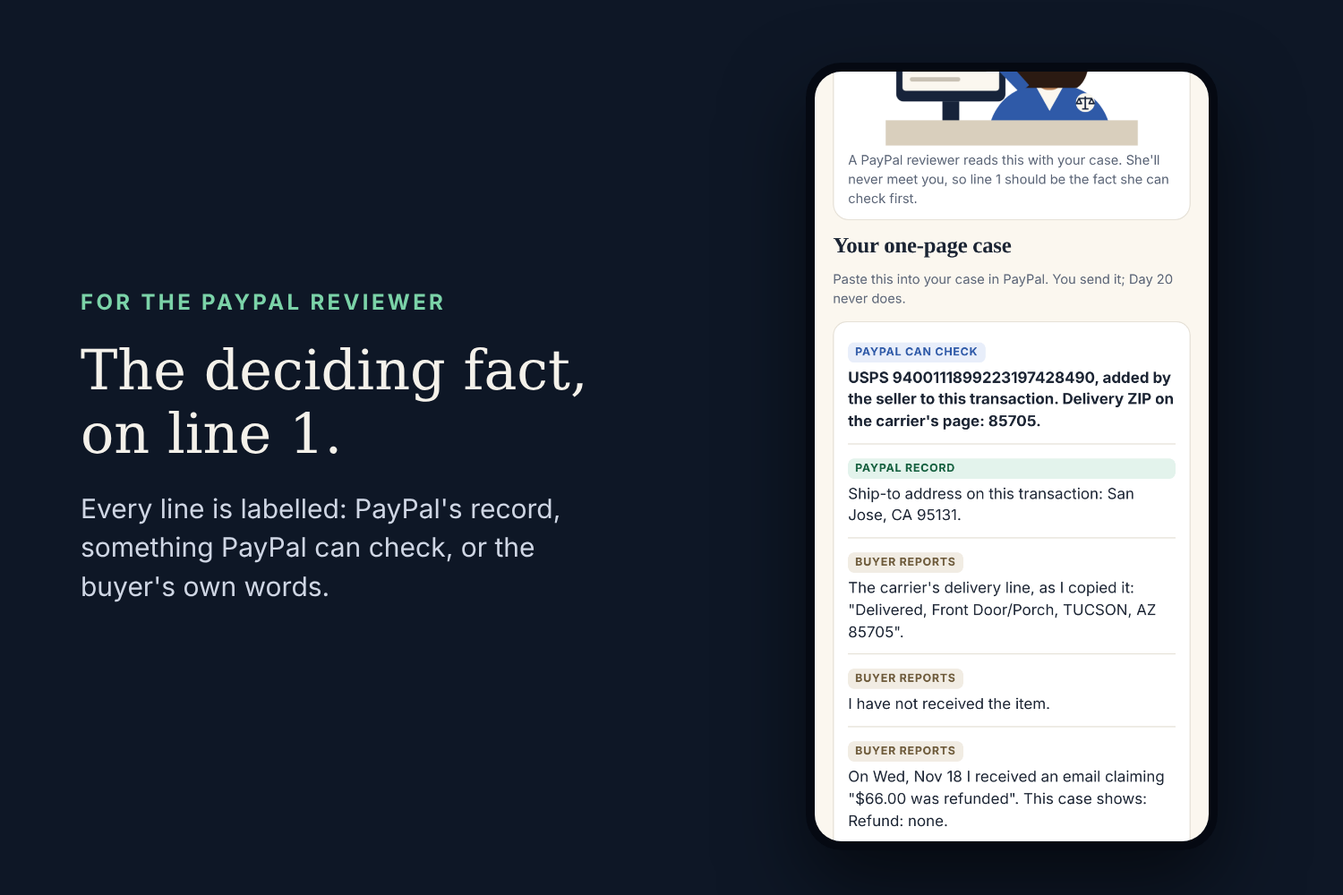
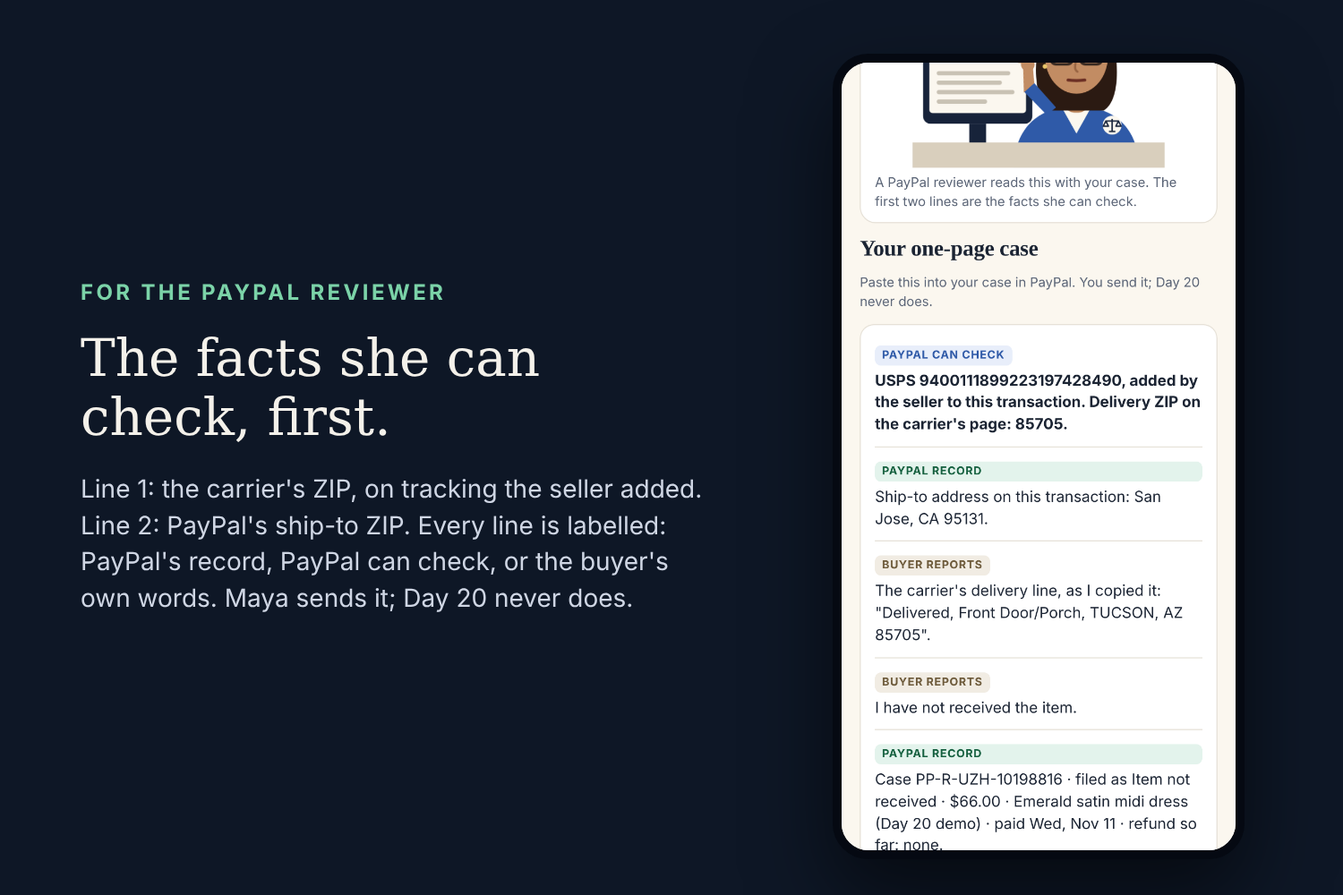
Live results on the current code (scams 3 runs, genuine 2 runs, all 24 scam screenshots, held-out set 8), README and Devpost text updated with them; new gallery and Maya thumbnail; video script for v12

Changed region(s): [[0.5827, 0.062, 0.92, 0.961], [0.0613, 0.372, 0.5213, 0.682], [0.0613, 0.31, 0.3373, 0.341]]

diff --git a/docs/DEVPOST.md b/docs/DEVPOST.md
@@ -4,75 +4,92 @@
 **Tagline:** Emails can lie. Your PayPal case can't.
 **Try it:** https://day20.onrender.com (tap "Try it as Maya", no sign-in) · **Code:** https://github.com/dalyathan/day20 (MIT)
 
+**In one line:** a fake "your refund is already in your balance" email, sent as a screenshot, checked against the buyer's real PayPal case: keyword rules can't read it, Claude can, and code makes the call.
+
 ## Inspiration
 
-Maya is an ICU nurse. She paid $66 with PayPal for a dress for her best friend's wedding. It never came: the tracking says delivered, in Tucson, Arizona; she lives in San Jose. She opened a PayPal dispute. Then, at 3:14 a.m. on her break, an email from `service@paypal.com`: *"The seller has issued a full refund of $66.00. Your case has been resolved. No further action is required."*
+Maya is an ICU nurse. She paid $66 with PayPal for a dress for her best friend's wedding. It never came: the tracking says delivered, in Tucson, Arizona; she lives in San Jose. She opened a PayPal dispute.
 
-It isn't true. If she believes it, her case closes by itself on day 20, and a closed case can't be reopened. Emails like this are real: security researchers have reported scams sent through PayPal's own genuine `service@paypal.com` address ([Malwarebytes, Apr 2026](https://www.malwarebytes.com/blog/news/2026/04/more-paypal-emails-hijacked-to-deliver-tech-support-scams)), and online shopping was the second most reported fraud category in the FTC's 2024 data ([FTC](https://www.ftc.gov/news-events/news/press-releases/2025/03/new-ftc-data-show-big-jump-reported-losses-fraud-125-billion-2024)). Maya is our persona; we role-played 24 dispute scenes like hers with AI agents to design Day 20. In those scenes, honest buyers mostly lost *before* review, to the clock and to emails like this, not *at* review.
+At 3:14 a.m., on her break, an email arrives from "PayPal Service" about her case: *"Just a quick note so you're not left wondering. Your $66.00 is already sitting in your PayPal balance on our side… Everything looks good from here."*
+
+No link, no "click here", nothing a keyword filter flags. And it isn't true. The seller wrote it; he can see her case number. The `service@paypal.com` on the From line proves nothing: display names can be faked, and anyone with a PayPal account can even get PayPal's real servers to deliver their own words in an invoice or money-request note ([KnowBe4](https://blog.knowbe4.com/paypal-scam-from-paypal), [Malwarebytes](https://www.malwarebytes.com/blog/news/2026/04/more-paypal-emails-hijacked-to-deliver-tech-support-scams)). If Maya believes it and waits, her case closes by itself on Tue, Dec 1, day 20. A closed case can't be reopened, and the $66 is gone.
+
+She has ten minutes on a night break, so Day 20's answer is one line, and the deadline is a date, not a rule to look up. Online shopping was the second most reported fraud category in the FTC's 2024 data ([FTC](https://www.ftc.gov/news-events/news/press-releases/2025/03/new-ftc-data-show-big-jump-reported-losses-fraud-125-billion-2024)). Maya is our persona, not a real user: we role-played 24 dispute scenes like hers with AI agents to design Day 20. In those scenes, honest buyers mostly lost *before* review, to the clock and to emails like this one, not *at* review.
+
+**How her night ends in the demo:** Maya screenshots the email and asks Day 20. It says the email is wrong: PayPal shows no refund, and the case is open, 13 days before it closes. She checks the USPS page herself, types in the Tucson ZIP, and escalates in PayPal. Her one-page case opens with the two ZIPs the reviewer can check. At 3:19 a.m. she's back with her patients. The reviewer decides; Day 20 only made sure the case was still open when Maya acted.
 
 ## What it does
 
-A mobile web app for a buyer with an open PayPal dispute.
+Day 20 is a buyer safety layer for PayPal disputes, built so PayPal could ship it inside its own dispute screens (it's MIT-licensed).
 
-- **Reads her case from PayPal, read-only:** status, refund, amount, dates, ship-to ZIP, tracking, and the 20-day clock.
-- **Checks any email against that record.** Claude reads the email (or a screenshot); code compares each claim with PayPal's record: refunds, "case closed", requests to close or cancel, lookalike links, requests for codes, stalling. The sender's address is never proof.
+- **Reads her case from PayPal:** status, refund, amount, dates, ship-to ZIP, tracking, and the 20-day clock.
+- **Checks any email or screenshot against that record.** Claude reads it; code compares each claim with PayPal's record: refunds, "case closed", requests to close or cancel, lookalike links, requests for codes, stalling. The sender's address is never proof.
 - **Answers in one line from PayPal's record:** "PayPal shows no refund. Your case is still open: 13 days left, it closes Tue, Dec 1. Don't close it."
-- **Gives the next step**, including "not yet" when an honest seller deserves time and "not covered" when Buyer Protection doesn't apply.
-- **Drafts a one-page case for the reviewer:** the deciding fact on line 1, each line labelled `PAYPAL RECORD`, `PAYPAL CAN CHECK` or `BUYER REPORTS`.
+- **Keeps her own check apart from PayPal's record.** The delivered ZIP is what Maya read on the carrier's page. It's labelled "Your check", beside "PayPal's record: your ship-to ZIP".
+- **Gives the next step,** including "not yet" when an honest seller deserves time and "not covered" when Buyer Protection doesn't apply.
+- **Drafts a one-page case for the reviewer.** Its first two lines are the facts she can check: the carrier's delivered ZIP (on tracking the seller added) and PayPal's ship-to ZIP. Every line is labelled `PAYPAL RECORD`, `PAYPAL CAN CHECK` or `BUYER REPORTS`.
 - **Reminders she chooses** (day 15 and day 18), silent by default.
 
-It never files, escalates, closes or accepts anything; she does that in PayPal. Read-only is enforced by code: the app only makes GET calls. Pasted emails go to Anthropic's API to be read and aren't stored; reminder emails, if she chooses them, go through Resend.
+It never files, escalates, closes or accepts anything. She does that in PayPal. Its PayPal client refuses any call that isn't a read, and a test checks that; the only writes are the setup scripts that create the sandbox case. Pasted emails go to Anthropic's API to be read. Day 20 doesn't keep the email text, but Anthropic's API data policy applies. Reminder emails, if she chooses them, go through Resend.
+
+## What Claude does, and what it doesn't
+
+Claude makes two decisions:
+1. **What does this email claim?** It reads reworded lies and screenshots that keyword rules can't. A red flag only counts if Claude quotes the sentence and code confirms it's in the email and isn't negated or hypothetical. (For a screenshot the quote is checked against Claude's own transcription, so that check is weaker.) Amounts must appear in the email too.
+2. **Which code-written sentences does Maya read?** Code writes every sentence; Claude picks from them. Claude can add a warning but never remove one. (We haven't measured whether Claude's choice beats a fixed order.)
+
+Code decides the rest: each claim against PayPal's record, the verdict, the deadline and the next step.
+
+**Results on the deployed app, with Claude on** (claude-sonnet-5-5; check code at commit 197d0f3, unchanged in 95b7bb3). Raw rows: [`tests/live/`](https://github.com/dalyathan/day20/tree/main/tests/live); summary: `npm run live-summary`; re-run them yourself by pasting `scripts/live-eval-browser.js` into the browser console on the live site.
+
+| | Keyword rules alone | With Claude |
+|---|---|---|
+| Scam emails flagged red (the 24 we tuned on) | 9 / 24 | **11 / 24 in each of 3 runs** (the same 11 every time) |
+| Genuine emails wrongly flagged red (36) | 0 / 36 | **0 / 36 in each of 2 runs** |
+| Scam **screenshots** flagged red (all 24, one run) | can't read images | **11 / 24: the same 11 as the text** |
+
+- **What Claude adds on text is narrow: 2 of 24, both reworded refund lies like Maya's** ("already sitting in your PayPal balance"). It catches them in all 3 runs. The other 13 scams aren't flagged red by either reader; they get the amber "go by your PayPal case, not this email", which every email that isn't flagged red gets, genuine ones included.
+- **On screenshots, Claude is the only reader.** It transcribes the image, then the same checks run. Over all 24 scam screenshots it flagged the same 11 as the text versions, so reading an image costs nothing. Screenshots of 6 held-out genuine emails: 1 flagged, the same different-shop refund the rules flag as text.
+- **Genuine email it had never seen** (held-out set 8: 12 emails by a fresh writer, frozen before scoring): 11/12 left alone in each of 3 runs at commit 2ddc64e, and in 1 run on the current code (95b7bb3). Keyword rules alone also score 11/12, and Claude can't remove a flag, so this shows Claude **added no false alarm**, not that it fixed one.
+- **Not measured:** unseen scams (a fresh agent asked to write new ones was stopped by a safety check, and we didn't work around it), and whether Claude's choice of sentences beats a fixed order.
+
 
 ## How we built it
 
-**Claude reads → code decides → Claude picks which code-written sentences she sees.**
-
-- **PayPal (sandbox):** Disputes API, then the capture's `up` link to Orders v2 for the ship-to address and trackers, plus the Tracking API. Maya's case is a real sandbox dispute: a $66 order, captured, seller tracking added, "item not received". The demo is a labelled replay of it at the open stage, read through our own test seller account; the real case is one tap away.
+- **PayPal (sandbox):** Disputes API, then the capture's `up` link to Orders v2 for the ship-to address and trackers, plus the Tracking API. Maya's case is a real sandbox dispute: a $66 order, captured, seller tracking added, "item not received". The demo is a labelled replay of it at the open stage, read through our own test seller account.
 - **Why not PayPal's Agent Toolkit?** Its dispute tools are merchant-side and include `accept_dispute_claim`. Day 20 is for the buyer and must not be able to act, so it makes only the read calls.
-- **Agent:** a Claude tool loop (`read_case`, `read_claim`, `compare`, `next_step`, `draft_page`, `schedule_reminder`, `note_options`, `compose_note`), all read-only. The model can add a warning but never remove one, and a red flag only counts if Claude quotes the sentence and code confirms it's in the email (for a screenshot, in the transcription) and isn't negated or hypothetical; amounts must appear in the email too.
-- **Also:** Node 22 with zero dependencies on Render; an MCP server with five read-only functions (it uses the rules reader; your own assistant does the reading); a Postman collection of every PayPal call (its Day 20 folder runs in CI); web push from the RFCs; Spanish.
+- **Agent:** a Claude tool loop, all read-only. Most of its tools just hand Claude the case, the comparison and the sentence options; the two decisions above are the real work.
+- **Also:** Node 22 with zero dependencies on Render; an MCP server with five read-only functions (it uses the rules reader, and your own assistant does the reading); a Postman collection of every PayPal call (its Day 20 folder runs in CI); web push from the RFCs; Spanish.
 
 ## Who tests the AI?
 
-AI agents played scammers, a rule-breaker and honest senders, scoring a point for every mistake they caused; each mistake became a test. The biggest lesson: our regex honesty filter caught 0 of 33 new harmful sentences, so **the model no longer writes anything Maya reads.**
-
-**Does Claude help?** Same 60 test emails, run through the deployed app, one run each. These are emails we tuned on, including the evidence check:
-
-| | Rules alone | With Claude |
-|---|---|---|
-| Scams flagged red (contradicts PayPal's record) | 9 / 24 | **11 / 24** |
-| Scams still warned about (red, or "go by your PayPal case, not this email") | 24 / 24 | 24 / 24 |
-| Genuine emails flagged red (all still get a caution) | 0 / 36 | **0 / 36** |
-
-**On email it had never seen:** 12 genuine emails by a fresh writer, frozen before scoring: 11/12 not flagged red with rules alone, and 11/12 in each of 3 runs with Claude, so Claude added no false alarm (the miss is a real refund from a different shop). **We haven't measured unseen scams** with the current code: a fresh agent asked to write new ones was stopped by a safety check, and we didn't work around it.
-
-Every email-test number re-runs from the repo (`npm run eval`, `npm run replay-heldout`, `npm run live-eval-deployed`); the agent-game counts (like "0 of 33") are our report.
+AI agents played scammers and honest senders and scored a point for every mistake they caused; each mistake became a test. When a regex filter on the model's own sentences caught 0 of 33 harmful ones, we stopped letting the model write anything Maya reads.
 
 ## Why PayPal would want this
 
-It isn't a "file more claims" button. In 8 of our 24 designed scenes it says **don't escalate yet, or at all**: the seller is answering, check with a neighbour, the item arrived as described, or the purchase isn't covered. The claims that do arrive lead with a fact the reviewer can check on line 1. The metric we'd want to move with PayPal: **fewer valid "item not received" cases closing unescalated on day 20** (lower is better), without more escalations of cases the seller resolves.
+It isn't a "file more claims" button. In 8 of our 24 designed scenes it says **don't escalate yet, or at all**: the seller is answering, check with a neighbour, the item arrived as described, or the purchase isn't covered. The claims that do arrive open with the two facts a reviewer can check. The metric we'd want to move with PayPal: **fewer valid "item not received" cases closing unescalated on day 20**, without more escalations of cases the seller resolves.
 
 ## Challenges
 
-- **There's no buyer-side read API.** Log in with PayPal gives identity, not transactions, so the demo reads the case through our seller account. Real buyers need the scope below.
+- **An outside app can't read a buyer's case yet.** PayPal's API lists a `disputes/read-buyer` scope, but we found no way for a third-party app to get a buyer's consent for it (Log in with PayPal gives identity, not transactions). So the demo reads the case through our own seller account.
 - **Regex can't police a language model.** So the model picks sentences instead of writing them.
-- **Our own fixes created false alarms** (the first live run flagged 2 genuine emails red), which is why model flags now need checkable quotes.
+- **Our own fixes created false alarms.** The first live run flagged 2 genuine emails red, which is why Claude's flags now need checkable quotes.
 
 ## Accomplishments that we're proud of
 
 - The model can't write a sentence Maya reads, and its red flags must quote the email.
-- We publish our misses, and every email-test number, including held-out scores from old commits, re-runs from the repo.
-- A real sandbox dispute end to end, and a live app judges can try in 30 seconds.
+- Read-only isn't just a promise: the PayPal client refuses writes, and a test proves it.
+- We publish our misses, and every email-test number re-runs, including held-out scores from old commits.
 
 ## What we learned
 
-The most useful thing an agent can do here is boring: keep the clock, compare claims with the record, and put the deciding fact on line 1. Persuasion and filing are where the harm is.
+The most useful thing an agent can do here is boring: keep the clock, compare claims with the record, and put the checkable facts first. Persuasion and filing are where the harm is.
 
 ## What's next: our asks to PayPal
 
-1. **A buyer-consented, read-only `disputes.read` scope** for the buyer's own cases, so Day 20 works for real buyers.
-2. **The carrier's delivered ZIP on the dispute record,** with a mismatch against the ship-to ZIP flagged to the reviewer automatically.
-3. **Dispute webhooks for buyer apps,** so reminders follow the case's real status instead of dates.
+1. **Label seller-written text in PayPal's own emails.** Invoice and money-request notes arrive from `service@paypal.com`. Mark them "written by the seller", and block refund claims and dispute case numbers in them.
+2. **Put the carrier's delivered ZIP on the dispute record,** and flag a mismatch with the ship-to ZIP to the reviewer. That helps reviewers whether or not anyone uses Day 20.
+3. **Let buyers consent to `disputes/read-buyer` for an outside app,** and extend dispute webhooks to buyers, so reminders follow the case's real status. Or ship Day 20 inside PayPal's dispute screens: it's MIT-licensed and only reads.
 
 ## Built with
 

diff --git a/docs/VIDEO_SCRIPT.md b/docs/VIDEO_SCRIPT.md
@@ -1,25 +1,26 @@
-# Video: Day 20 (2:07, captions, no voiceover)
+# Video: Day 20 (2:13, captions, no voiceover)
 
-No narration: every word on screen is a caption. Phone footage is a scripted recording of the app with the saved
-sandbox case (replay, set to "open" at day 7). The two email checks show **responses captured from the live app
-with Claude on** (day20.onrender.com, commit 6c9528a), rendered by the same app, and the captions say so. Maya and
-Rosa are animated SVG characters from `public/characters.js`.
+Every word on screen is a caption; there's no narration. The phone footage is a scripted recording of the app
+(commit 95b7bb3) with the saved sandbox case, replayed and set to "open" at day 7. The check shows **Claude's
+responses captured from the live app** (day20.onrender.com, commit 95b7bb3), rendered by the same app, and a caption
+says so. Maya and Rosa are animated SVG characters from `public/characters.js`. The whole video uses one flat
+background colour.
 
 | Time | On screen | Caption |
 |---|---|---|
-| 0:00–0:07 | Night. A PayPal-looking email: "refund issued … No further action is required … please close your case". | "3:14 a.m. Maya, an ICU nurse, is on her break. Her PayPal case is open. Then this arrives." |
-| 0:07–0:15 | Maya (animated). | "It isn't true. If she believes it and waits, her case closes by itself on day 20. Under PayPal's rules, a closed case can't be reopened. Maya isn't giving up." |
-| 0:15–0:22 | Phone: case screen, 7 of 20, closes Tue, Dec 1. | "Day 20 reads her PayPal case. Read-only: status, refund, ship-to ZIP, tracking, and the 20-day clock." Small: "Demo: our own sandbox case, read through our test seller account and set to 'open' at day 7. Real buyers would need a read-only scope from PayPal." |
-| 0:22–0:28 | Phone: she pastes the email; "Checking…" while Claude reads. | "She pastes the email. Claude reads it. Code checks each claim against PayPal's record." Small: "Recorded from the live app with Claude on." |
-| 0:28–0:37 | Phone: "This email is wrong", report it, next step. | "It's wrong. No refund. Case open. First: report it to phishing@paypal.com. Then: escalate before day 20." |
-| 0:37–0:43 | Phone: the AI summary ("the AI picked these sentences"). | "Claude picks what she reads. Every sentence is written by code from her PayPal record. The AI only chooses which ones." |
-| 0:43–0:56 | Phone: a second email, "Your $66.00 is already sitting in your PayPal balance", then a zoom on the trace: `read_claim (rules) → case PP-…` and, highlighted, `read_claim (Claude) → added what the rules missed: refund $66; no action needed`. | "A lie the keyword rules miss. Rules saw only a case number. Claude caught the refund claim, and code checked its quote." |
-| 0:56–1:03 | Phone: next step, "Ask PayPal to step in by Sun, Nov 29", outlined Escalate button. | "Escalate by Sun, Nov 29. Two days before the case closes on Tue, Dec 1. Day 20 never files: she taps Escalate in PayPal herself." |
-| 1:03–1:08 | Phone: the case at its real sandbox status, "With a PayPal reviewer". | "The real sandbox case, today. PayPal moved it to review on its own. (Still a saved replay.)" |
-| 1:08–1:18 | Phone: the one-page case, every line tagged. | "For the reviewer: the deciding fact first. Every line is labelled: PayPal's record, something PayPal can check, or Maya's own words." |
-| 1:18–1:27 | Rosa (animated), the reviewer. | "Rosa reviews PayPal disputes. She'll never meet Maya. She reads the case, and checks line 1 of Maya's page first. This time, Maya acts before day 20." |
-| 1:27–1:36 | Under the hood. | "Claude reads. Code decides. Claude reads messy emails and screenshots. Code decides the verdict and the deadline. Code writes every sentence Maya sees. Claude's red flags must quote the email." |
-| 1:36–1:45 | Same 60 test emails. | Scams flagged red: rules alone 9/24, with Claude 11/24. Genuine emails wrongly flagged red: 0/36 and 0/36. "Emails we had tuned on. Every scam still got at least 'go by your PayPal case, not this email'." |
-| 1:45–1:53 | Email it had never seen. | "12 new genuine emails: 11 left alone, in all 3 runs with Claude. The one miss: a real refund from a different shop. Unseen scams with Claude: not measured yet." |
-| 1:53–2:00 | How we tested it. | "AI agents played scammers and honest senders, scoring a point for every mistake they caused. Each mistake became a test. The email-test numbers re-run from the repo." |
-| 2:00–2:07 | End card. | "Emails can lie. Your PayPal case can't. Day 20 · day20.onrender.com · Sandbox prototype · read-only by code · free for buyers · open source (MIT). Built on PayPal's sandbox APIs. Not affiliated with or endorsed by PayPal. PayPal decides every case." |
+| 0:00–0:08 | Night. Her email, from "PayPal Service": "Your $66.00 is already sitting in your PayPal balance … Everything looks good from here." | "3:14 a.m. Maya, an ICU nurse, is on her break. The dress she bought for her best friend's wedding never came. Her PayPal case is open. Then this arrives." |
+| 0:08–0:12 | A closed case card. | "If she believes it and waits: Tue, Dec 1 · day 20. Case closed. It can't be reopened. The $66 is gone." |
+| 0:12–0:20 | Maya (animated). | "It isn't true. The seller wrote it; he can see her case number. The PayPal address proves nothing: scammers can even get real PayPal emails sent with their own words in them. Maya isn't giving up." |
+| 0:20–0:28 | Phone: home, then her case: day 7 of 20, closes Tue, Dec 1. | "Day 20 reads her PayPal case. Status, refund, ship-to ZIP, tracking, and the 20-day clock. It only reads: it can't change anything in PayPal." Small: "Demo: our own sandbox case, read through our test seller account and set to 'open' at day 7. Real buyers would need PayPal to let an outside app read their case." |
+| 0:28–0:36 | Phone: she types Tucson, AZ / 85705 / the carrier's delivery line and saves. The next step now reads "Your check: … 85705 … PayPal's record: your ship-to ZIP … 95131". | "Then Maya checks for herself. The USPS page says delivered in Tucson, 85705. She lives in San Jose, 95131. She types it in, and Day 20 labels it as her check, next to PayPal's ship-to ZIP." |
+| 0:36–0:48 | Phone: "Or as a screenshot" loads her email as an image; "Checking…"; "This email is wrong about your PayPal case." | "She screenshots the email and asks Day 20. No link, no 'click here': nothing a keyword filter would flag. Keyword rules can't read an image at all. Claude can." Small: "Claude's answers in this video were captured from the live app, then replayed in a scripted recording." |
+| 0:48–0:55 | Phone: the trace. Card: `read_claim (rules) → no checkable claims`, then, highlighted, `read_claim (Claude) → added what the rules missed: refund $66; no action needed`. | "Claude caught the lie. Rules found nothing. Claude found the claim: $66 refunded, no action needed. Code checked it against PayPal's record: no refund. The case is open." Small: "For a screenshot, Claude's quote is checked against its own transcription of the image." |
+| 0:55–1:03 | Phone: next step, with an outlined "Escalate in PayPal ↗" button. | "Escalate by Sun, Nov 29. Two days before the case closes on Tue, Dec 1. Day 20 never files: she taps Escalate in PayPal herself." |
+| 1:03–1:13 | Phone: the one-page case. | "For the reviewer: the facts she can check, first. Line 1: the carrier's ZIP, on the tracking the seller added. Line 2: PayPal's ship-to ZIP. Every line is labelled: PayPal's record, PayPal can check, or Maya's words." |
+| 1:13–1:23 | Rosa (animated), the reviewer. | "Rosa reviews PayPal disputes. She opens Maya's case with the one-page summary attached, and checks the first two lines: the carrier's ZIP and PayPal's ship-to ZIP. Because Maya acted before day 20, there's still a case to review." |
+| 1:23–1:31 | Maya (animated), smiling. | "3:19 a.m. Five minutes. She escalated in PayPal herself, 13 days before her case would have closed. The two ZIPs are ready for the reviewer. Then back to her patients." |
+| 1:31–1:40 | Under the hood. | "Claude reads. Code decides. Claude decides 1: what does this email claim? Every red flag must quote it. Code decides: each claim against PayPal's record, the verdict, the deadline. Claude decides 2: which code-written sentences Maya reads. Never: anything written to PayPal. Maya files, escalates and decides." |
+| 1:40–1:52 | Results, live app. | Scam emails flagged red: keyword rules alone 9/24; with Claude 11/24, the same 11 in all 3 runs. Scam screenshots flagged red: rules can't read them; with Claude 11/24, the same 11 as the text. Genuine emails wrongly flagged red: 0/36 and 0/36 (2 runs). "Claude's 2 extra catches are reworded refund lies, like Maya's. These are emails we tuned on; unseen scams aren't measured yet." Small: "Commit 197d0f3 · claude-sonnet-5-5 · raw results in the repo". |
+| 1:52–2:00 | Unseen genuine email. | "12 new genuine emails, frozen before scoring: 11 left alone, in every run with Claude. Keyword rules alone also leave 11 alone, so Claude added no false alarm. The one miss, in text and as a screenshot: a real refund from a different shop." |
+| 2:00–2:06 | How we tested it. | "AI agents played scammers and honest senders, scoring a point for every mistake they caused. Each mistake became a test. The email numbers re-run from the repo, and from a browser on the live app." |
+| 2:06–2:13 | End card. | "Emails can lie. Your PayPal case can't. Day 20 · day20.onrender.com · Sandbox prototype · read-only by code · free for buyers · open source (MIT). Built on PayPal's sandbox APIs. Not affiliated with or endorsed by PayPal. PayPal decides every case." |

diff --git a/README.md b/README.md
@@ -37,7 +37,7 @@ To design it, we role-played 24 dispute scenes with AI agents (an exercise, not 
 | **Checks an email against it** | Refund claimed vs refund on file, "case closed" vs status, reshipment numbers vs tracking on file, lookalike links, requests for codes, stalling ("no need to escalate"). The sender is never treated as proof. |
 | **Tells her the next step** | Including **"not yet"** when an honest seller deserves time, and **"not covered"** when Buyer Protection doesn't apply. It never helps a false claim. |
 | **Keeps the deadline** | Day 15 and day 18 reminders she chooses, by web push, email or calendar. Silent by default. |
-| **Drafts the one-page case** | The deciding fact first. Every line is tagged `PAYPAL RECORD`, `PAYPAL CAN CHECK` or `BUYER REPORTS`, so the reviewer knows what to verify. |
+| **Drafts the one-page case** | The checkable facts first: line 1 is the carrier's delivered ZIP (on tracking the seller added), line 2 is PayPal's ship-to ZIP. Every line is tagged `PAYPAL RECORD`, `PAYPAL CAN CHECK` or `BUYER REPORTS`, so the reviewer knows what to verify. |
 
 **What it never does:** file, escalate, close or accept anything; message the seller; ask for a password or code; send sign-in links. The app, the agent and the MCP server only read from PayPal; the only writes are in the sandbox setup script, which plays the seller to build the demo case.
 
@@ -110,20 +110,31 @@ Sets 4–7 were then tuned on and moved to regression; set 8 is still held out. 
 - No sentence shown tripped the honesty rules. (A tripwire, not proof: every sentence shown is written by code, and the rules alone missed harmful model-written text in game 3.)
 - Median time was 4.7 s.
 
-**Live model on the deployed app** (all 24 scam and 36 genuine regression emails, Nov 11; reproduce with `APP_URL=… npm run live-eval-deployed`):
+**How the evidence check got here** (three versions of the check, one run each, all 24 scam and 36 genuine regression emails, Nov 11). The current code's repeated runs are in the next table.
 
-| Run | Scams flagged red | Genuine emails flagged red | Judged by the model |
+| Version | Scams flagged red | Genuine emails flagged red | Judged by the model |
 |---|---|---|---|
 | Rules alone (no model) | 9/24 | 0/36 | 0/60 |
-| Model, no evidence check ([run 1](tests/live/deployed-2026-11-11.jsonl)) | 11/24 | **2/31** (of the 31 genuine emails the model judged) | 55/60 (credit ran out; the last 5, all genuine, fell back to rules and still answered) |
-| Model + evidence check v1 ([run 2](tests/live/deployed-2026-11-11-gate1.jsonl)) | 10/24 | 0/36 | 60/60 |
-| Model + evidence check v2 ([run 3](tests/live/deployed-2026-11-11-gate2.jsonl)) | **11/24** | **0/36** | 60/60 |
+| Model, no evidence check ([check v0 run](tests/live/deployed-2026-11-11.jsonl)) | 11/24 | **2/31** (of the 31 genuine emails the model judged) | 55/60 (credit ran out; the last 5, all genuine, fell back to rules and still answered) |
+| Model + evidence check v1 ([check v1 run](tests/live/deployed-2026-11-11-gate1.jsonl)) | 10/24 | 0/36 | 60/60 |
+| Model + evidence check v2 ([check v2 run](tests/live/deployed-2026-11-11-gate2.jsonl)) | **11/24** | **0/36** | 60/60 |
 
-- Run 1: the model caught 2 reworded refund lies the keyword reader missed, but also flagged 2 genuine emails red: a seller's "if you accept, the refund of $20 would be sent" and a PayPal chat saying "no refund has been issued yet".
+- Check v0: the model caught 2 reworded refund lies the keyword reader missed, but also flagged 2 genuine emails red: a seller's "if you accept, the refund of $20 would be sent" and a PayPal chat saying "no refund has been issued yet".
 - So a model flag that can turn an email red now needs evidence. A refund, closed case, close request, code request or off-PayPal payment needs the exact sentence quoted, and code checks it's in the email and isn't negated or hypothetical. Case IDs, links and tracking numbers must appear in the email as written.
 - v1 was too strict: it dropped a real catch because the sentence went on to say "it should be there". v2 judges the clause that makes the claim, lets requests be conditional ("if that works for you, please end the claim"), and keeps the engineer judge's must-stay-red sentences ("We can confirm the $66.00 is back").
-- Run 3 kept every catch and no false alarm. The check also stopped one false alarm by itself: on g5_12 the model listed a case ID that isn't in the email. No sentence shown tripped the honesty rules (a tripwire; every sentence shown is written by code); median 5.2 s.
+- Check v2 kept every catch and no false alarm. The check also stopped one false alarm by itself: on g5_12 the model listed a case ID that isn't in the email. No sentence shown tripped the honesty rules (a tripwire; every sentence shown is written by code); median 5.2 s.
 - These are the same 60 emails we tuned on, so they show the check works as designed, not how it does on unseen email. One run per email.
+
+**Current code, repeated on the deployed app** (Claude on, Nov 11; check code at commit 197d0f3, unchanged in 95b7bb3; `npm run live-summary` prints this from the raw rows; re-run by pasting `scripts/live-eval-browser.js` into the browser console on the live site):
+
+| | Keyword rules alone | With Claude |
+|---|---|---|
+| Scam emails flagged red (24, tuned on) | 9/24 | **11/24 in each of 3 runs**, the same 11 each time ([rows](tests/live/live-2026-11-11-197d0f3.jsonl)) |
+| Genuine emails flagged red (36) | 0/36 | **0/36 in each of 2 runs** |
+| Scam screenshots flagged red (all 24, 1 run) | can't read images | **11/24**, the same 11 as text ([rows](tests/live/live-2026-11-11-95b7bb3.jsonl) and the first file) |
+| Held-out set 8, genuine, flagged red | 1/12 | 1/12 as text (1 run), 1/6 as screenshots; the same h8_01 every time |
+
+Claude's 2 extra catches on text (s2_01, s2_08) are reworded refund lies; s2_01 is Maya's 3:14 a.m. email in the demo. The rows were exported from the browser in a compact form and re-expanded (every non-red row was "careful"; no check failed or fell back to rules).
 
 Raw results: [`tests/live/`](tests/live/).
 

diff --git a/tests/heldout/RESULTS.md b/tests/heldout/RESULTS.md
@@ -19,6 +19,7 @@ It checks out each commit below in a temporary git worktree and scores the same 
 | Game 6 genuine emails (`g6_*`), written after the game-5 fixes | `29d4f66` | **5/12 not flagged red** |
 | Game 7 genuine emails (`g7_*`), written after the game-6 fixes | `b61f13f` | **11/12 not flagged red** |
 | Set 8 genuine emails (`heldout/honest/h8_*`), by a fresh writer who never saw the code, frozen in `c261da7` | `323b54a` (rules) · `2ddc64e` (live model, 3 runs each) | **Rules: 11/12 not flagged red. Live model: 11/12 in each of 3 runs** ([log](../live/heldout-h8-2026-11-11.jsonl)). The model added no false alarm and the evidence check dropped nothing. The miss, h8_01, is the rules reader's: a genuine refund from a *different* shop for a different order, read as a refund on her case. The model can't remove a flag, so it stays red. |
+| Set 8 again, on the current code | `95b7bb3` (live model, 1 run as text; 6 as screenshots) | **11/12 not flagged red as text, 5/6 as screenshots**; the miss is h8_01 both times ([log](../live/live-2026-11-11-95b7bb3.jsonl), [screenshots](../live/live-2026-11-11-197d0f3.jsonl)). |
 
 What "not called safe" means: Day 20 only says an email agrees with the case when it claims a refund
 or a closed case *and* PayPal's record agrees. A scam rarely does, so "never called safe" is mostly

diff --git a/tests/live/README.md b/tests/live/README.md
@@ -1,0 +1,13 @@
+Live checks against the deployed app (Claude on). Each line is one check: group, email id, run, overall verdict
+("mismatch" = flagged red), what contradicted PayPal's record, what Claude added over the keyword rules, what the
+evidence check dropped, and provenance (commit, model, prompt hash, time).
+
+- `live-2026-11-11-197d0f3.jsonl`: the current check code. 24 scam + 36 genuine regression emails (scams 3 runs,
+  genuine 2 runs), plus screenshots of 6 scams and 6 held-out genuine emails.
+- `live-2026-11-11-95b7bb3.jsonl`: the same check code (95b7bb3 only changed wording and demo samples): screenshots
+  of the other 18 scams, and held-out set 8 as text.
+- `deployed-2026-11-11*.jsonl`, `heldout-h8-2026-11-11.jsonl`: earlier versions of the evidence check (v0, v1, v2).
+
+The two 2026-11-11 `live-*` files were run in a browser with `scripts/live-eval-browser.js`, exported in a compact
+form and re-expanded: every non-red row was "careful", every check was judged by the model (mode "agent"), and none
+failed. Summary: `npm run live-summary`.
